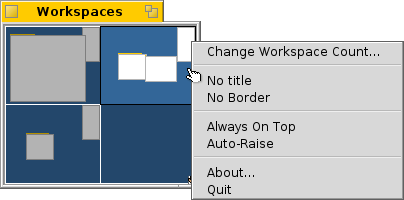
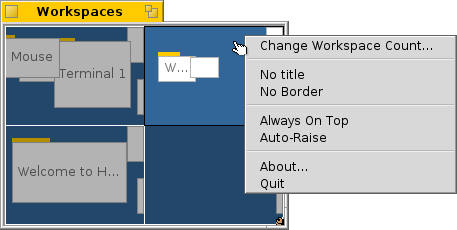
Patch by Humdinger: * Improved Tracker and Deskbar introductions. * Updated and improved a few graphics and added some more. (Humdinger: The Teammonitor intro was missing from your patch.)
git-svn-id: file:///srv/svn/repos/haiku/haiku/trunk@27995 a95241bf-73f2-0310-859d-f6bbb57e9c96

diff --git a/welcome/tracker.html b/welcome/tracker.html
@@ -15,7 +15,7 @@
 	<p>
 		<a href="welcome.html">Welcome</a>
 		&nbsp;&nbsp;&nbsp;
-		Previous: <a href="twitcher.html">The Twitcher</a>
+		Previous: <a href="teammonitor.html">The Team Monitor</a>
 		&nbsp;&nbsp;&nbsp;
 		Next: <a href="deskbar.html">The Deskbar</a>
 	</p>
@@ -25,7 +25,7 @@
 
 <h2><a name="tracker">The Tracker</a></h2>
 <p>The Tracker is the graphical interface to all your files. It let's you create new files and folders or find, launch or rename as well as copy or delete existing ones.
-</p><p>Being an application like any other (the Desktop with its icons is really just a fullscreen window in the background), Tracker appears with its windows in the Deskbar and can be quit and restarted. The easiest way to quit and restart a e.g. crashed or frozen Tracker is to call the TeamManager with <tt>CTRL+ALT+DEL</tt> to kill Tracker and then click the <i>Restart Desktop...</i> button. The same brings back a wayward Deskbar.
+</p><p>Being an application like any other (the Desktop with its icons is really just a fullscreen window in the background), Tracker appears with its windows in the Deskbar and can be quit and restarted. The easiest way to quit and restart a crashed or frozen Tracker (or a wayward Deskbar) is to call the <a href="teammonitor.html">Team Monitor</a>.
 </p>
 
 <h3><a name="mounting-volumes">Mounting Volumes</a></h3>
@@ -36,7 +36,7 @@
 </p><p>There are also <i>Mount Settings</i> so you don't have to mount everything manually after every bootup.<br>
 The above settings will mount all disks on bootup that were mounted previously and will automatically mount any storage device you connect/insert.
 </p><p><b><font size="+1" color="#FF0000">Warning:</font><br>
-<font color="#FF0000">Before you disconnect e.g. a harddrive or USB stick, make sure you have successfully unmounted the volume. This garantees that all data transfer has finished. Otherwise you may lose data or corrupt the disk!</font></b>
+<font color="#FF0000">Before you disconnect e.g. a harddrive or USB stick, make sure you have successfully unmounted the volume. This guarantees that all data transfer has finished. Otherwise you may lose data or corrupt the disk!</font></b>
 </p>
 
 <h3><a name="navigating">Navigating</a></h3>
@@ -56,9 +56,9 @@ The above settings will mount all disks on bootup that were mounted previously a
 </p><br>
 <p>By default, when you double-click a folder, Tracker opens a new window while leaving the parent window open. This can quickly lead to an overcrowded desktop.<br>
 You can prevent that by holding down the left <tt>WIN</tt> key, which automatically closes the parent window.<br>
-This is also true for...</p>
+This is also true for keyboard navigation.</p>
 <h4><a name="keyboard-navigation">Keyboard navigation</a></h4>
-<p>A few shortcuts are essential for keyboard navigation:
+<p>A few shortcuts are essential:
 <ul><li><tt>ALT+CURSOR-UP</tt> - Open parent folder.</li>
 <li><tt>ALT+CURSOR-DOWN</tt> or <tt>RETURN</tt> - Open selected folder.</li>
 <li><tt>ALT+W</tt> - Close window.</li>
@@ -78,7 +78,7 @@ This is also true for...</p>
 <li><b>Clean Up</b> (<tt>ALT+K</tt>) - Aligns all icons to an invisible grid. Hold down <tt>SHIFT</tt> and the menu becomes <i>Clean Up All</i> which additionally sorts all icons alphabetically.</li>
 <li><b>Select...</b> (<tt>SHIFT+ALT+A</tt>) - Select files according to a regular expression.</li>
 </ul>
-</p><p>The rest of the functions are pretty self-explanatory, leaving the...
+</p><p>The rest of the functions are pretty self-explanatory, leaving the Tracker preferences.
 </p>
 
 <h4><a name="tracker-preferences">Tracker preferences</a></h4>
@@ -97,8 +97,8 @@ Before you switch Tracker to Single Window Navigation mode, because that may fee
 </p>
 
 <h3>Working with files</h3>
-<p>When invoked on a selected file, the <i>File</i> menu offers about the same options as when you open a context menu by right-clicking the file. Exceptions are commands that don't specifically target a selected file, like <i>Find..</i> or <i>New...</i>.
-</p><p>As usual the usage of the commands is pretty clear, so we'll concentrate on the niftier parts.</p>
+<p>When invoked on a selected file, most of the <i>File</i> menu commands are also offered in the context menu by right-clicking that file.
+</p><p>As usual the usage of the commands is pretty clear.</p>
 <ul><li><b>Find...</b> - Find a file or folder. See topic <a href="Query.html">Query</a> for more info.</li>
 <li><b>New...</b> - Create a new folder or any other file based on a <i>template</i>.
 <br><br>
@@ -106,13 +106,29 @@ Before you switch Tracker to Single Window Navigation mode, because that may fee
 <p>Choosing <i>Edit Templates...</i> opens the folder <tt>/boot/home/config/settings/Tracker/Tracker New Templates</tt>. Creating a file in that folder will offer its filetype with the file's name and other attributes as template in the <i>New...</i> menu. Here, there's a file "Text" with the filetype <tt>text/plain</tt>. See topic <a href="filetypes.html">Filetypes</a> for more info.</p></li>
 <li><b>Open With...</b> - A submenu offers all applications that can handle this filetype. 
 <br><br>
-<img src="tracker-images/open-with.png" alt="open-with.png" width="303" height="215">
-<p>The preferred application that would open the file when double-clicked, is checkmarked. This submenu list first those applications that can handle the exact filetype, in this case it's a text file, the type <tt>text/plain</tt>. Next come all applications that can handle that supertype in general, here <tt>text/*</tt>. Last in the list are those that can deal with any file. If you don't click on an app in the submenu, but on the <i>Open With...</i> entry instead, a panel opens:
+<img src="tracker-images/open-with.png" alt="open-with.png" width="303" height="343">
+<p>The preferred application that would open the file when double-clicked, is checkmarked. This submenu lists first those applications that can handle the exact filetype, in this case it's a text file, the type <tt>text/plain</tt>. Next come all applications that can handle that supertype in general, here <tt>text/*</tt>. Last in the list are those that can deal with any file. If you don't click on an app in the submenu, but on the <i>Open With...</i> entry instead, a panel opens:
 <br><br>
 <img src="tracker-images/open-with-preferred.png" alt="open-with-preferred" width="539" height="262">
 <p>Here you'll again find the programs that were listed in the submenu. By selecting one and clicking the <i>Open and Make Preferred</i> button, you changed the preferred application for every file of that filetype, here <tt>text/plain</tt>.
+</p></li>
+<li><b>Get Info</b>
+<br><br>
+<img src="tracker-images/get-info.png" alt="get-info" width="326" height="302">
+<p>The panel presents info on the selected file and lets you set the default application and, after you expanded that part of the panel, permissions and owner. Clicking on the path will open it in a Tracker window.</li>
+<li><b>Edit Name</b>, <b>Duplicate</b> and <b>Move to Trash</b> - lets you rename or duplicate a file or put the selected file(s) to the trash.</li>
+<li><b>Move to</b>, <b>Copy to</b> and <b>Create Link</b> - lets you move, copy or link the selected file(s) using the submenu navigating method. Holding <tt>SHIFT</tt> while invoking the menu offers the option to create a relative link.</li>
+<li><b>Cut</b>, <b>Copy</b> and <b>Paste</b> - lets you cut, copy and paste files using the clipboard. By holding <tt>SHIFT</tt> while invoking the menu you can <b>Copy/Cut more</b> files, maybe from another folder that you can paste somewhere else later. Also, while holding <tt>SHIFT</tt> you can paste the copied files in the clipboard as links.</li>
+<li><b>Identify</b> - will sniff out and set the type of a file if it didn't have one before, e.g. if you transfered a file with <i>wget</i> which doesn't set a filetype itself. Holding <tt>SHIFT</tt> while invoking the menu changes the item to identify the filetype and correct it if it was false before.</li></ul>
 </p>
 
+<h3>Transaction status</h3>
+<p>When you copy, move or delete files, Tracker shows its progress with a status window. If you initiate more than one transaction, each job gets its own status display.
+</p>
+<img src="tracker-images/transaction-status.png" width="361" height="149">
+<br>
+<p>To the right are two buttons to pause or stop a transaction entirely. Sometimes it can be useful to temporarily pause a large transaction. For example, you may need to quickly launch a large application. Copying large amounts of data chokes your harddisk’s IO bandwidth and thus delays your workflow.
+</p>
 </div>
 
 <div class="bottomnav">

diff --git a/welcome/deskbar.html b/welcome/deskbar.html
@@ -28,7 +28,7 @@
 </p>
 <img src="deskbar-images/positions.png" alt="positions" width="640" height="480"</a>
 <br>
-<p>You can move the Deskbar to any corner or as a bar along the upper or lower border of the screen by gripping the knobbly area on the left side of the tray and drag&amp;drop it into the new position. You can also fold it into a more compact layout by drag&amp;dropping the knobbly area onto the Deskbar menu. The Deskbar has to be in this compacted format when it's put in the lower corners of the screen.
+<p>You can move the Deskbar to any corner or as a bar along the upper or lower border of the screen by gripping the knobbly area on the left side of the tray and drag&amp;drop it into the new position. You can also fold it into a more compact layout by drag&amp;dropping the knobbly area onto the Deskbar menu.
 </p>
 
 <h3>The Deskbar Menu</h3>
@@ -37,27 +37,27 @@
 <img src="deskbar-images/settings.png" alt="settings.png" width="521" height="309"</a>
 <br>
 <ul>
-<li><i>About This System...</i>  --   Shows some basic information of the system, licenses and the credits of the Haiku project.</li>
+<li><b>About This System...</b> - Shows some basic information of the system, licenses and the credits of the Haiku project.</li>
 
-<li><i>Find...</i>  --   Opens the query dialog.</li>
-<li><i>Show Replicants</i>  --   Shows/hides the little Replicant widget you use to drag it around, remove or access its context menu.</li>
-<li><i>Deskbar Settings</i><ul>
-<li><i>Configure Deskbar Menu...</i>  --   Opens a panel to configure the Deskbar menu (see below).</li>
-    <li><i>Always on Top</i>  --   The Deskbar always stays above all other windows.</li>
-    <li><i>Auto Raise</i>  --   The Deskbar pops to the front if the mouse pointer touches it.</li>
-    <li><i>Sort Running Applications</i>  --   Sorts the list of running programs alphabetically.</li>
-    <li><i>Tracker always First</i>  --   Even if you sort alphabetically, the Tracker entry always stays first in the list.</li>
-    <li><i>24 Hour Clock</i>  --   Toggles between 24 and 12 hour clock.</li>
-    <li><i>Show Seconds</i>  --   Adds the display of seconds to the clock.</li>
-    <li><i>European Date</i>  --   Shows the date in European format: day-month-year</li>
+<li><b>Find...</b> - Opens the query dialog.</li>
+<li><b>Show Replicants</b> - Shows/hides the little Replicant widget you use to drag it around, remove or access its context menu.</li>
+<li><b>Deskbar Settings</b><ul>
+<li><i>Configure Deskbar Menu...</i> - Opens a panel to configure the Deskbar menu (see below).</li>
+    <li><i>Always on Top</i> - The Deskbar always stays above all other windows.</li>
+    <li><i>Auto Raise</i> - The Deskbar pops to the front if the mouse pointer touches it.</li>
+    <li><i>Sort Running Applications</i> - Sorts the list of running programs alphabetically.</li>
+    <li><i>Tracker always First</i> - Even if you sort alphabetically, the Tracker entry always stays first in the list.</li>
+    <li><i>24 Hour Clock</i> - Toggles between 24 and 12 hour clock.</li>
+    <li><i>Show Seconds</i> - Adds the display of seconds to the clock.</li>
+    <li><i>European Date</i> - Shows the date in European format: day-month-year</li>
     <li><i>---- Full Date ----</i></li>
-    <li><i>Show Application Expander</i>  --   Provides a small widget to show/hide all windows of a program directly under its entry in the Deskbar.</li>
-    <li><i>Expand New Applications</i>  --   Newly launched programs have their windows automatically expanded under their entry in the Deskbar.</li>
+    <li><i>Show Application Expander</i> - Provides a small widget to show/hide all windows of a program directly under its entry in the Deskbar.</li>
+    <li><i>Expand New Applications</i> - Newly launched programs have their windows automatically expanded under their entry in the Deskbar.</li>
     </ul></li>
-<li><i>Restart</i>  --   Restarts the system.</li>
-<li><i>Shutdown</i>  --   Shuts down the system.</li>
-<li><i>Recent Documents, Folders, Applications</i>  --   List the last recently opened documents, folders and applications (see <i>Configure Deskbar Menu...</i> below).
-<li><i>Applications, Demos, Deskbar Applets, Preferences</i>  --   List of installed applications, demos, applets and preferences (see <i>Configure Deskbar Menu...</i> below).</li>
+<li><b>Restart</b> - Restarts the system.</li>
+<li><b>Shutdown</b> - Shuts down the system.</li>
+<li><b>Recent Documents, Folders, Applications</b> - List the last recently opened documents, folders and applications (see <i>Configure Deskbar Menu...</i> below).
+<li><b>Applications, Demos, Deskbar Applets, Preferences</b> - List of installed applications, demos, applets and preferences (see <i>Configure Deskbar Menu...</i> below).</li>
 </ul>
 
 <h4>Configure Deskbar Menu...</h4>

diff --git a/welcome/workspaces.html b/welcome/workspaces.html
@@ -28,11 +28,11 @@
 </p>
 
 <h3>The Workspaces Applet</h3>
-<p><img src="workspaces-images/workspaces.png" alt="workspaces.png" width="404" height="200">
+<p><img src="workspaces-images/workspaces.png" alt="workspaces.png" width="457" height="230">
 </p><p>The Workspaces applet shows a miniature version of all workspaces. There are several options available from the context menu of the applet's window, which are all pretty self-explaining. Since the applet is a Replicant, you can resize the window as desired and then drag&drop it by its handle onto the desktop (make sure "<i>Show Replicants</i>" is activated in the Deskbar menu).</p>
 
 <h3>Switching workspaces</h3>
-<p>You can switch between workspaces by either clicking into the Workspaces applet or by using the keyboard shortcut <tt>ALT+Fx</tt>, where "x" is the workspace number. Also, clicking on an application or one of its windows in the Deskbar will send you to the workspace it resides in.
+<p>You can switch between workspaces by either clicking into the Workspaces applet or by using the keyboard shortcut <tt>ALT+Fx</tt>, where "x" is the workspace number. Also, clicking on an application or one of its windows in the Deskbar will send you to the workspace it's in.
 </p>
 
 <h3>Moving windows between workspaces</h3>

diff --git a/welcome/attributes.html b/welcome/attributes.html
@@ -77,7 +77,7 @@ MIME String         21  &quot;BEOS:TYPE&quot;
 <p>Besides all the "<tt>META:*</tt>" attributes that hold the contact's information, there are two attributes that are managed by the system: 
 </p><p>
 <ul><li><tt>BEOS:TYPE</tt> holds the file type as a MIME string, here "<tt>application/x-person</tt>. It determines the default icon and the application that opens the file when you e.g. double click it.</li>
-<li>"<tt>_trk/pinfo_le</tt>" is kept by Tracker as... I'm not sure, I'm still investigating...&nbsp;:)</li></ul></p>
+<li>"<tt>_trk/pinfo_le</tt>" is the attribute with which Tracker keeps track of a file's icon position.</li></ul></p>
 <p>Note the backslash after "Clara". In Terminal you have to "escape" special characters like '"*\$?!. The space between "Clara" and "Botters" is also one of those. Therefore the backslash is really in front of the space character, and not after "Clara".</li>
 <p><br>
 </p>

diff --git a/welcome/welcome.html b/welcome/welcome.html
@@ -46,6 +46,7 @@ The first release(s) of Haiku will be very much like the BeOS R5, the OS it is r
 	<li><a href="gui.html">Haiku's GUI</a></li>
 	<li><a href="workspaces.html">Workspaces</a></li>
 	<li><a href="twitcher.html">Twitcher</a></li>
+	<li><a href="teammonitor.html">Team Monitor</a></li>
 	<li><a href="tracker.html">Tracker</a></li>
 	<li><a href="deskbar.html">Deskbar</a></li>
 	<li><a href="filetypes.html">Filetypes</a> (plus <a href="workshop-filetypes+attributes.html">Workshop</a>)</li>

diff --git a/welcome/twitcher.html b/welcome/twitcher.html
@@ -17,7 +17,7 @@
 		&nbsp;&nbsp;&nbsp;
 		Previous: <a href="workspaces.html">Workspaces</a>
 		&nbsp;&nbsp;&nbsp;
-		Next: <a href="tracker.html">The Tracker</a>
+		Next: <a href="teammonitor.html">The Team Monitor</a>
 	</p>
 </div>
 
